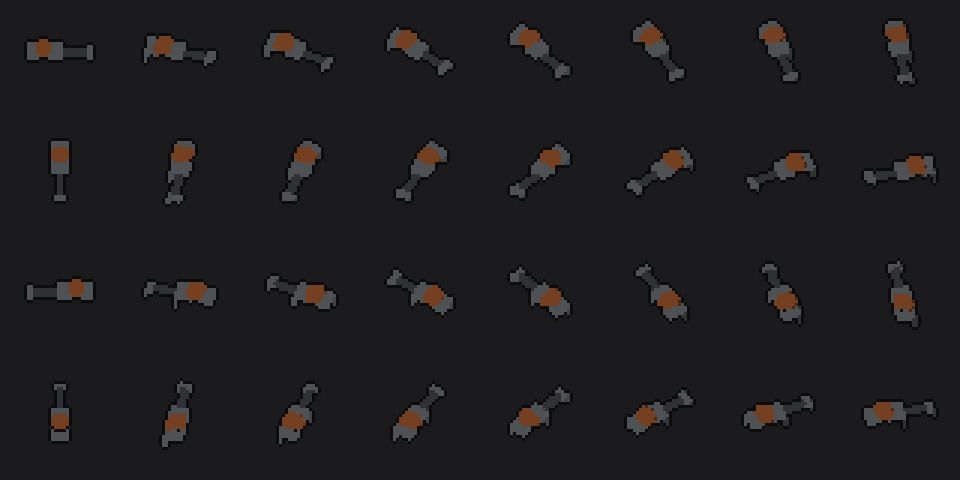
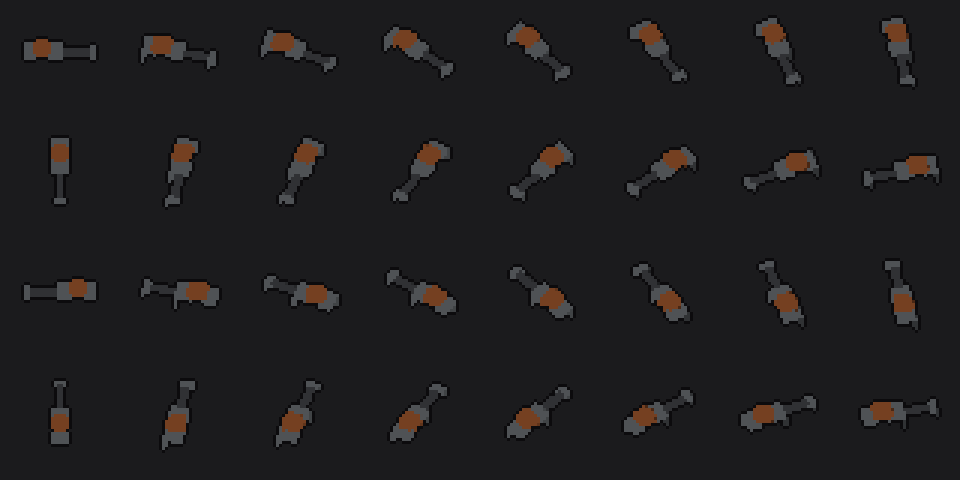
docs+previews: enemy rig table, weapon scale, fresh capture

diff --git a/docs/ART_PIPELINE.md b/docs/ART_PIPELINE.md
@@ -114,3 +114,24 @@ Every enemy hull has an `elite_trim` layer (gold spine stripe and nose chevron).
 **Enemy colours:** enemy red `#F23D29`, acid `#99F240`, goop `#E0A458` and elite gold `#FFC740`. `tests/art_content_test.gd` fails if an enemy sheet contains cyan `#40D1E0`, push orange `#ED7A2B`, shield `#8CBFFF` or truck `#73D980`.
 
 **Export:** `export_presets.cfg` includes `art/sprites/*.json`, so the APK ships the metadata.
+
+
+## Enemy rigs and weapon scale (PR #15)
+
+| Rig script | art id | body (px) | notes |
+|---|---|---|---|
+| enemy_rig.gd | outrider | 74x32 | elite_trim when is_elite() |
+| bulwark_rig.gd | bulwark | 84x46 | armored plow; `charge_glow` layer while Mode.ATTACK |
+| gunner_rig.gd | gunner | 74x40 | turret `gunner_rig` on turret_mount |
+| scrapper_rig.gd | scrapper | 62x32 | dropper tray chunk |
+| scrapper_gunner_rig.gd | scrapper_gunner | 64x34 | turret gun id `scrapper` -> sheet `scrapper_turret` (ART_WEAPON_ALIASES) |
+| convoy_rig.gd | convoy | 96x46 | ram + nose guns baked into the hull; hitch point |
+| convoy_trailer.gd | convoy_trailer | 70x40 | `_art_meta_path()` override; turret `convoy_turret` |
+| patcher_rig.gd | patcher | 66x34 | `winch` point; cable/hook/revive drawn over the sheet |
+
+Every enemy hull has an `elite_trim` layer (except the trailer), wreck chunks
+and frames centred on the ground footprint. Collision is unchanged (capsule
+from body_len/body_wid). Weapons are modelled at 1 px per voxel like the hulls:
+turret rings ~21 px, muzzles where the old code-drawn barrels ended
+(pintle 30.5 px from the pivot, Gunner burst 34 px). Review shot:
+`tools/art/capture_enemies.gd` -> `art/previews/capture_enemies.png`.
